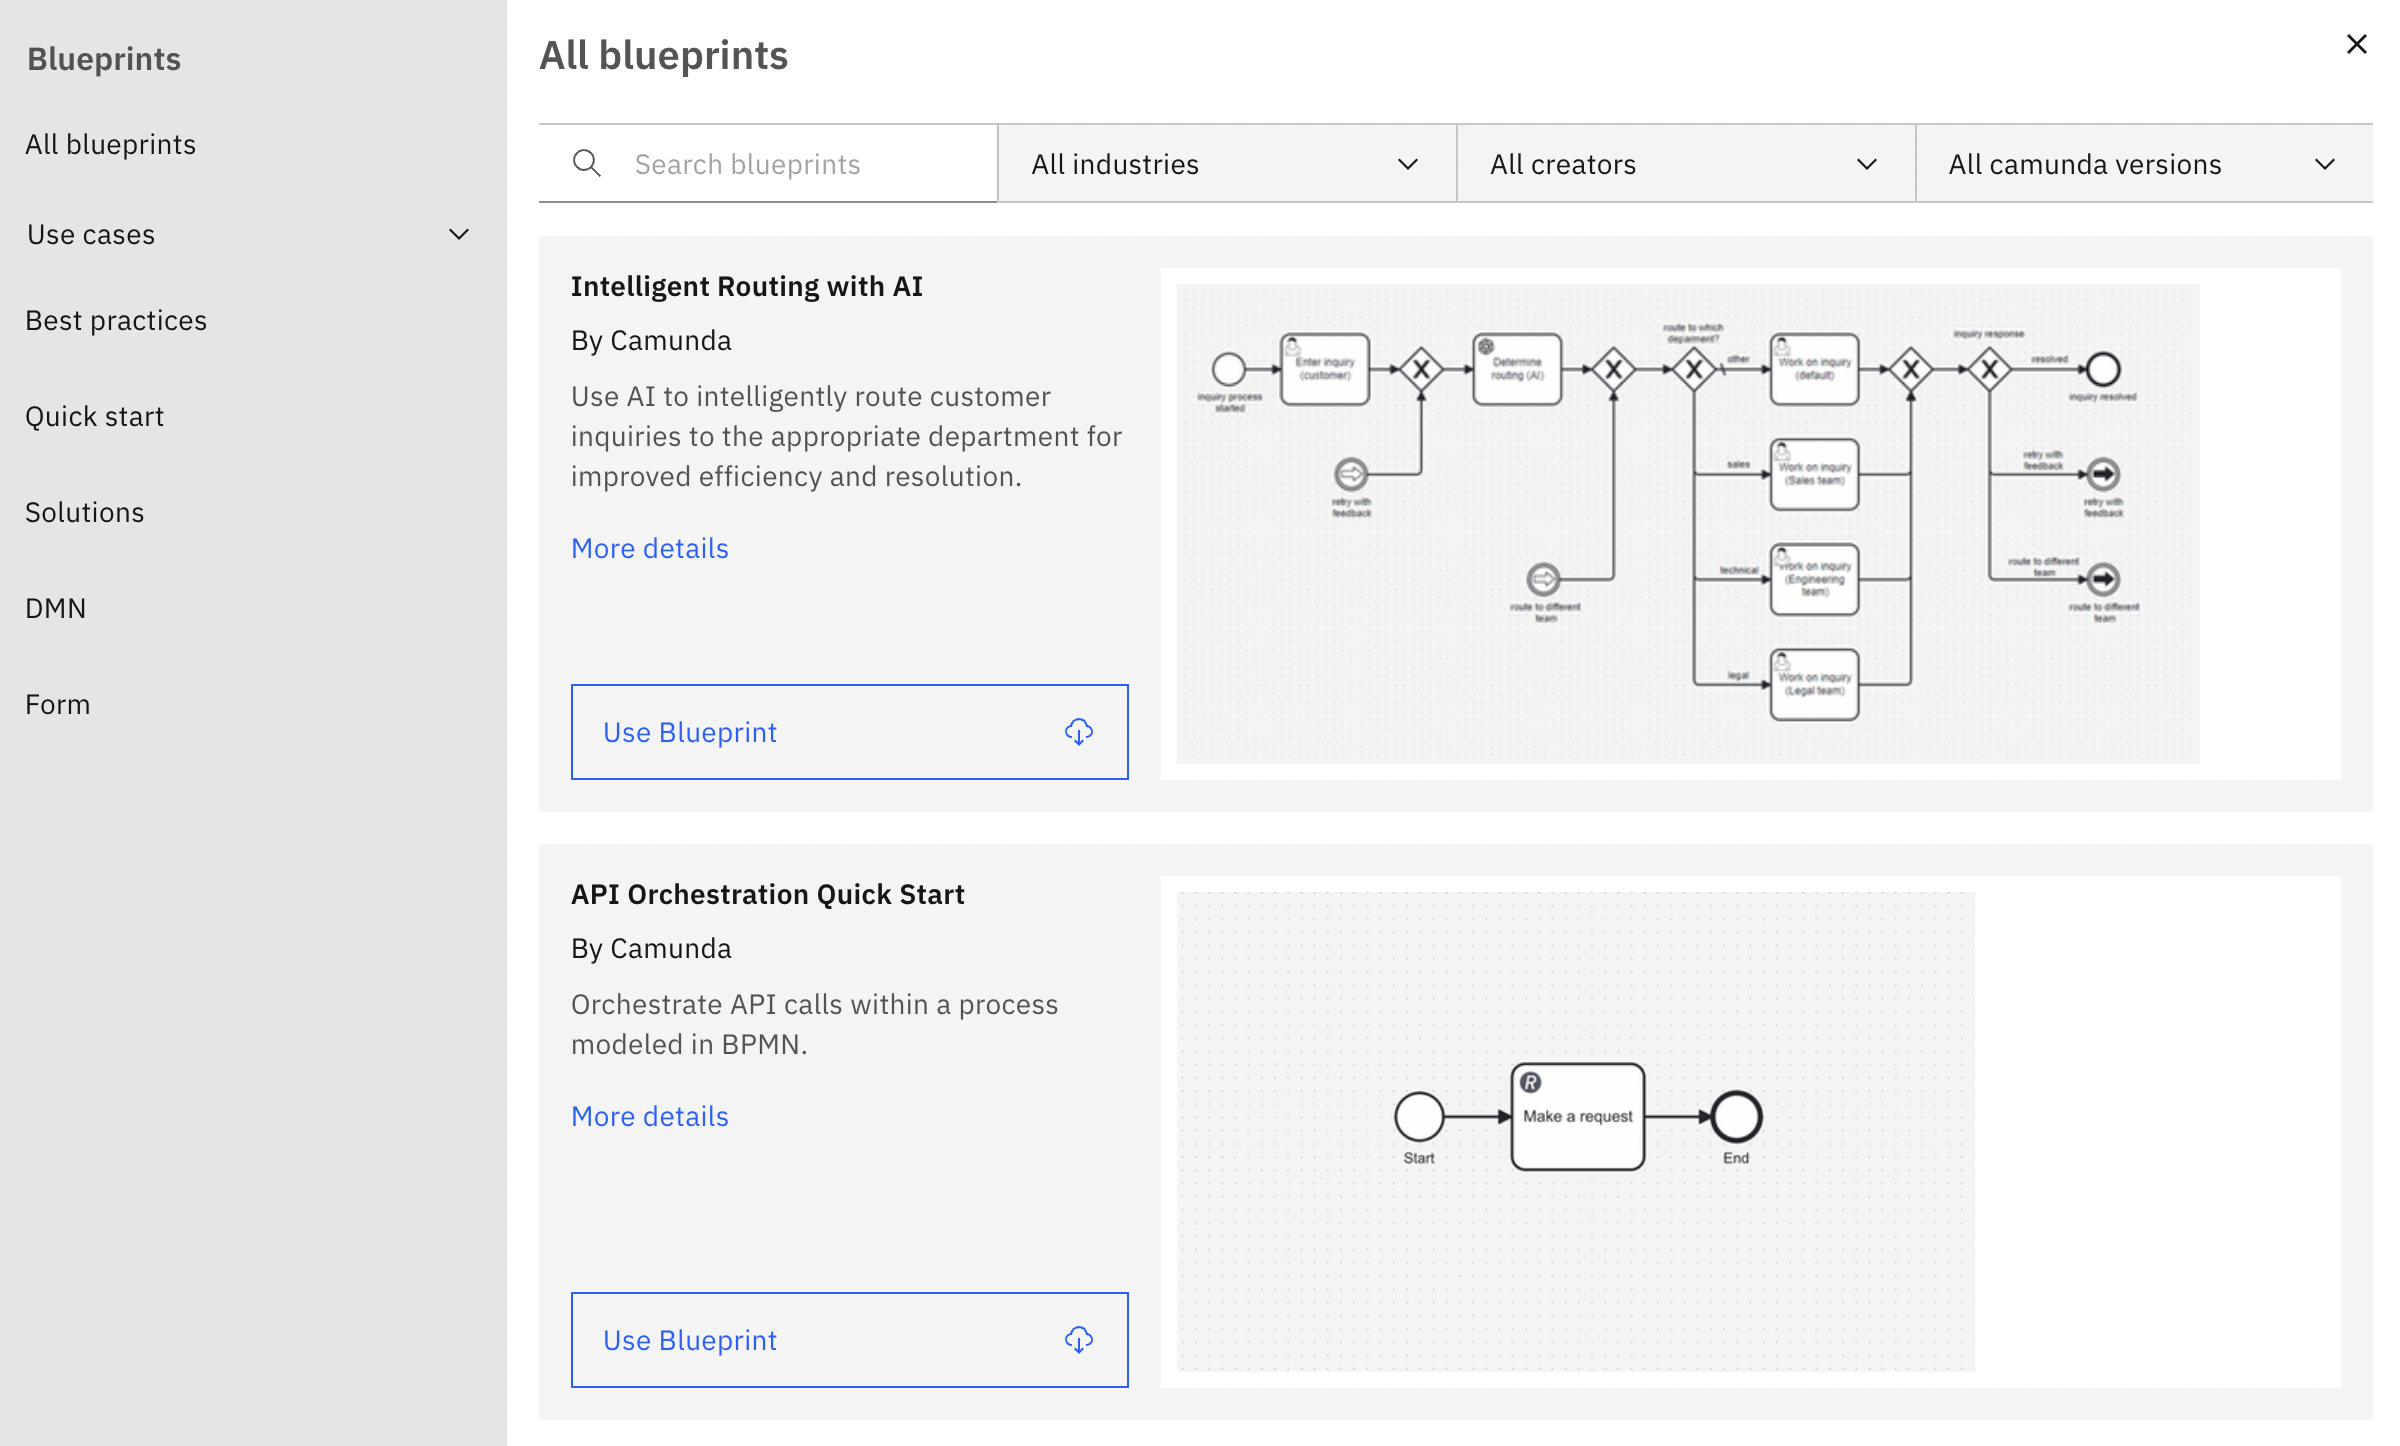
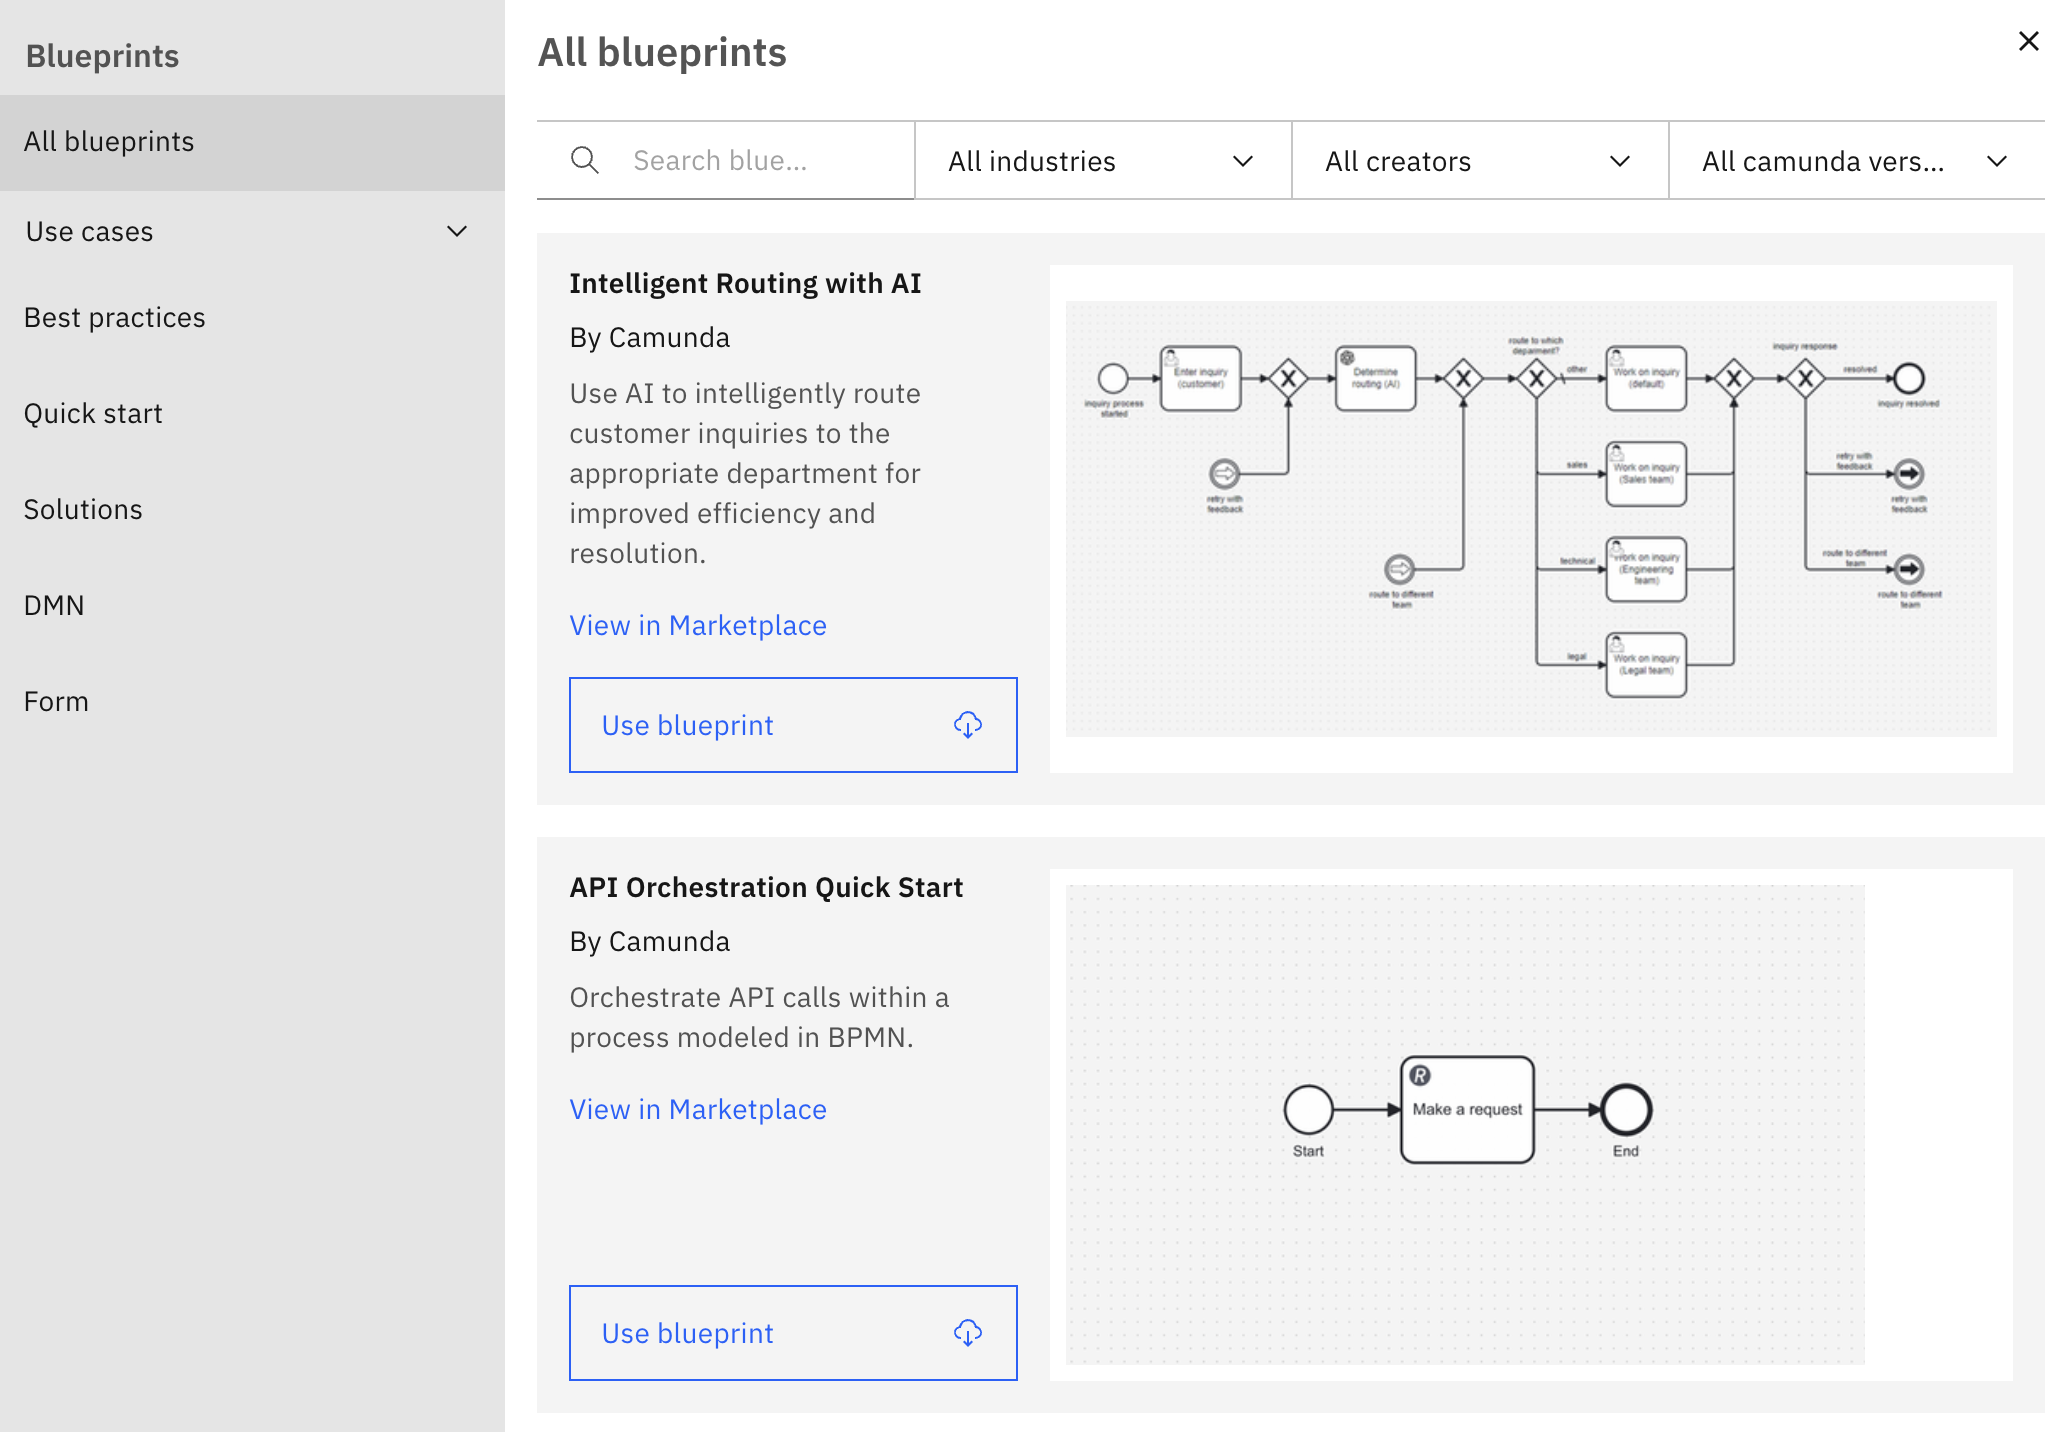
update screenshot and resolve comments

diff --git a/docs/components/modeler/web-modeler/launch-web-modeler.md b/docs/components/modeler/web-modeler/launch-web-modeler.md
@@ -14,8 +14,8 @@ To launch Web Modeler, follow the steps below:
 2. Select **Create new project** to create a new project and store diagrams.
    ![web modeler empty home](img/web-modeler-new-user-home.png)
 3. Name your diagram. You can go back and change the name any time by clicking on the project name and **Edit name**.
-4. Select **Browse blueprints** to open the blueprints dialog and view blueprints for various use cases as a starting point for your first diagram. Open these blueprints by selecting **Use blueprint**, which will download the blueprint into the project and open it in the diagram screen. Alternatively, click **Create new > BPMN diagram** to create a blank BPMN diagram.
+4. Select **Browse blueprints** to open the blueprints dialog and browse blueprints for various use cases as a starting point for your first diagram.
    ![web modeler blueprint browsing](img/web-modeler-blueprint.png)
-5. While browsing blueprints, you can also open the details of a specific blueprint by selecting **More details**. This opens a new tab in the [Camunda Marketplace](/components/modeler/web-modeler/camunda-marketplace.md). Here, you can have a closer look at the diagram, and open it in SaaS or Self-Managed.
-
-![Camunda marketplace example](img/camunda-marketplace-example.png)
+5. While browsing blueprints, open the details of a specific blueprint by selecting **More details**. This opens a new tab in [Camunda Marketplace](/components/modeler/web-modeler/camunda-marketplace.md). Here, have a closer look at the diagram, and open it in SaaS or Self-Managed.
+   ![Camunda marketplace example](img/camunda-marketplace-example.png)
+6. Open a blueprint by selecting **Use blueprint**, which downloads the blueprint into the project and opens it in the diagram screen. Alternatively, click **Create new > BPMN diagram** to create a blank BPMN diagram.

diff --git a/versioned_docs/version-8.5/components/modeler/web-modeler/launch-web-modeler.md b/versioned_docs/version-8.5/components/modeler/web-modeler/launch-web-modeler.md
@@ -14,8 +14,8 @@ To launch Web Modeler, follow the steps below:
 2. Select **Create new project** to create a new project and store diagrams.
    ![web modeler empty home](img/web-modeler-new-user-home.png)
 3. Name your diagram. You can go back and change the name any time by clicking on the project name and **Edit name**.
-4. Select **Browse blueprints** to open the blueprints dialog and view blueprints for various use cases as a starting point for your first diagram. Open these blueprints by selecting **Use blueprint**, which will download the blueprint into the project and open it in the diagram screen. Alternatively, click **Create new > BPMN diagram** to create a blank BPMN diagram.
+4. Select **Browse blueprints** to open the blueprints dialog and browse blueprints for various use cases as a starting point for your first diagram.
    ![web modeler blueprint browsing](img/web-modeler-blueprint.png)
-5. While browsing blueprints, you can also open the details of a specific blueprint by selecting **More details**. This opens a new tab in the [Camunda Marketplace](/components/modeler/web-modeler/camunda-marketplace.md). Here, you can have a closer look at the diagram, and open it in SaaS or Self-Managed.
-
-![Camunda marketplace example](img/camunda-marketplace-example.png)
+5. While browsing blueprints, open the details of a specific blueprint by selecting **More details**. This opens a new tab in [Camunda Marketplace](/components/modeler/web-modeler/camunda-marketplace.md). Here, have a closer look at the diagram, and open it in SaaS or Self-Managed.
+   ![Camunda marketplace example](img/camunda-marketplace-example.png)
+6. Open a blueprint by selecting **Use blueprint**, which downloads the blueprint into the project and opens it in the diagram screen. Alternatively, click **Create new > BPMN diagram** to create a blank BPMN diagram.
